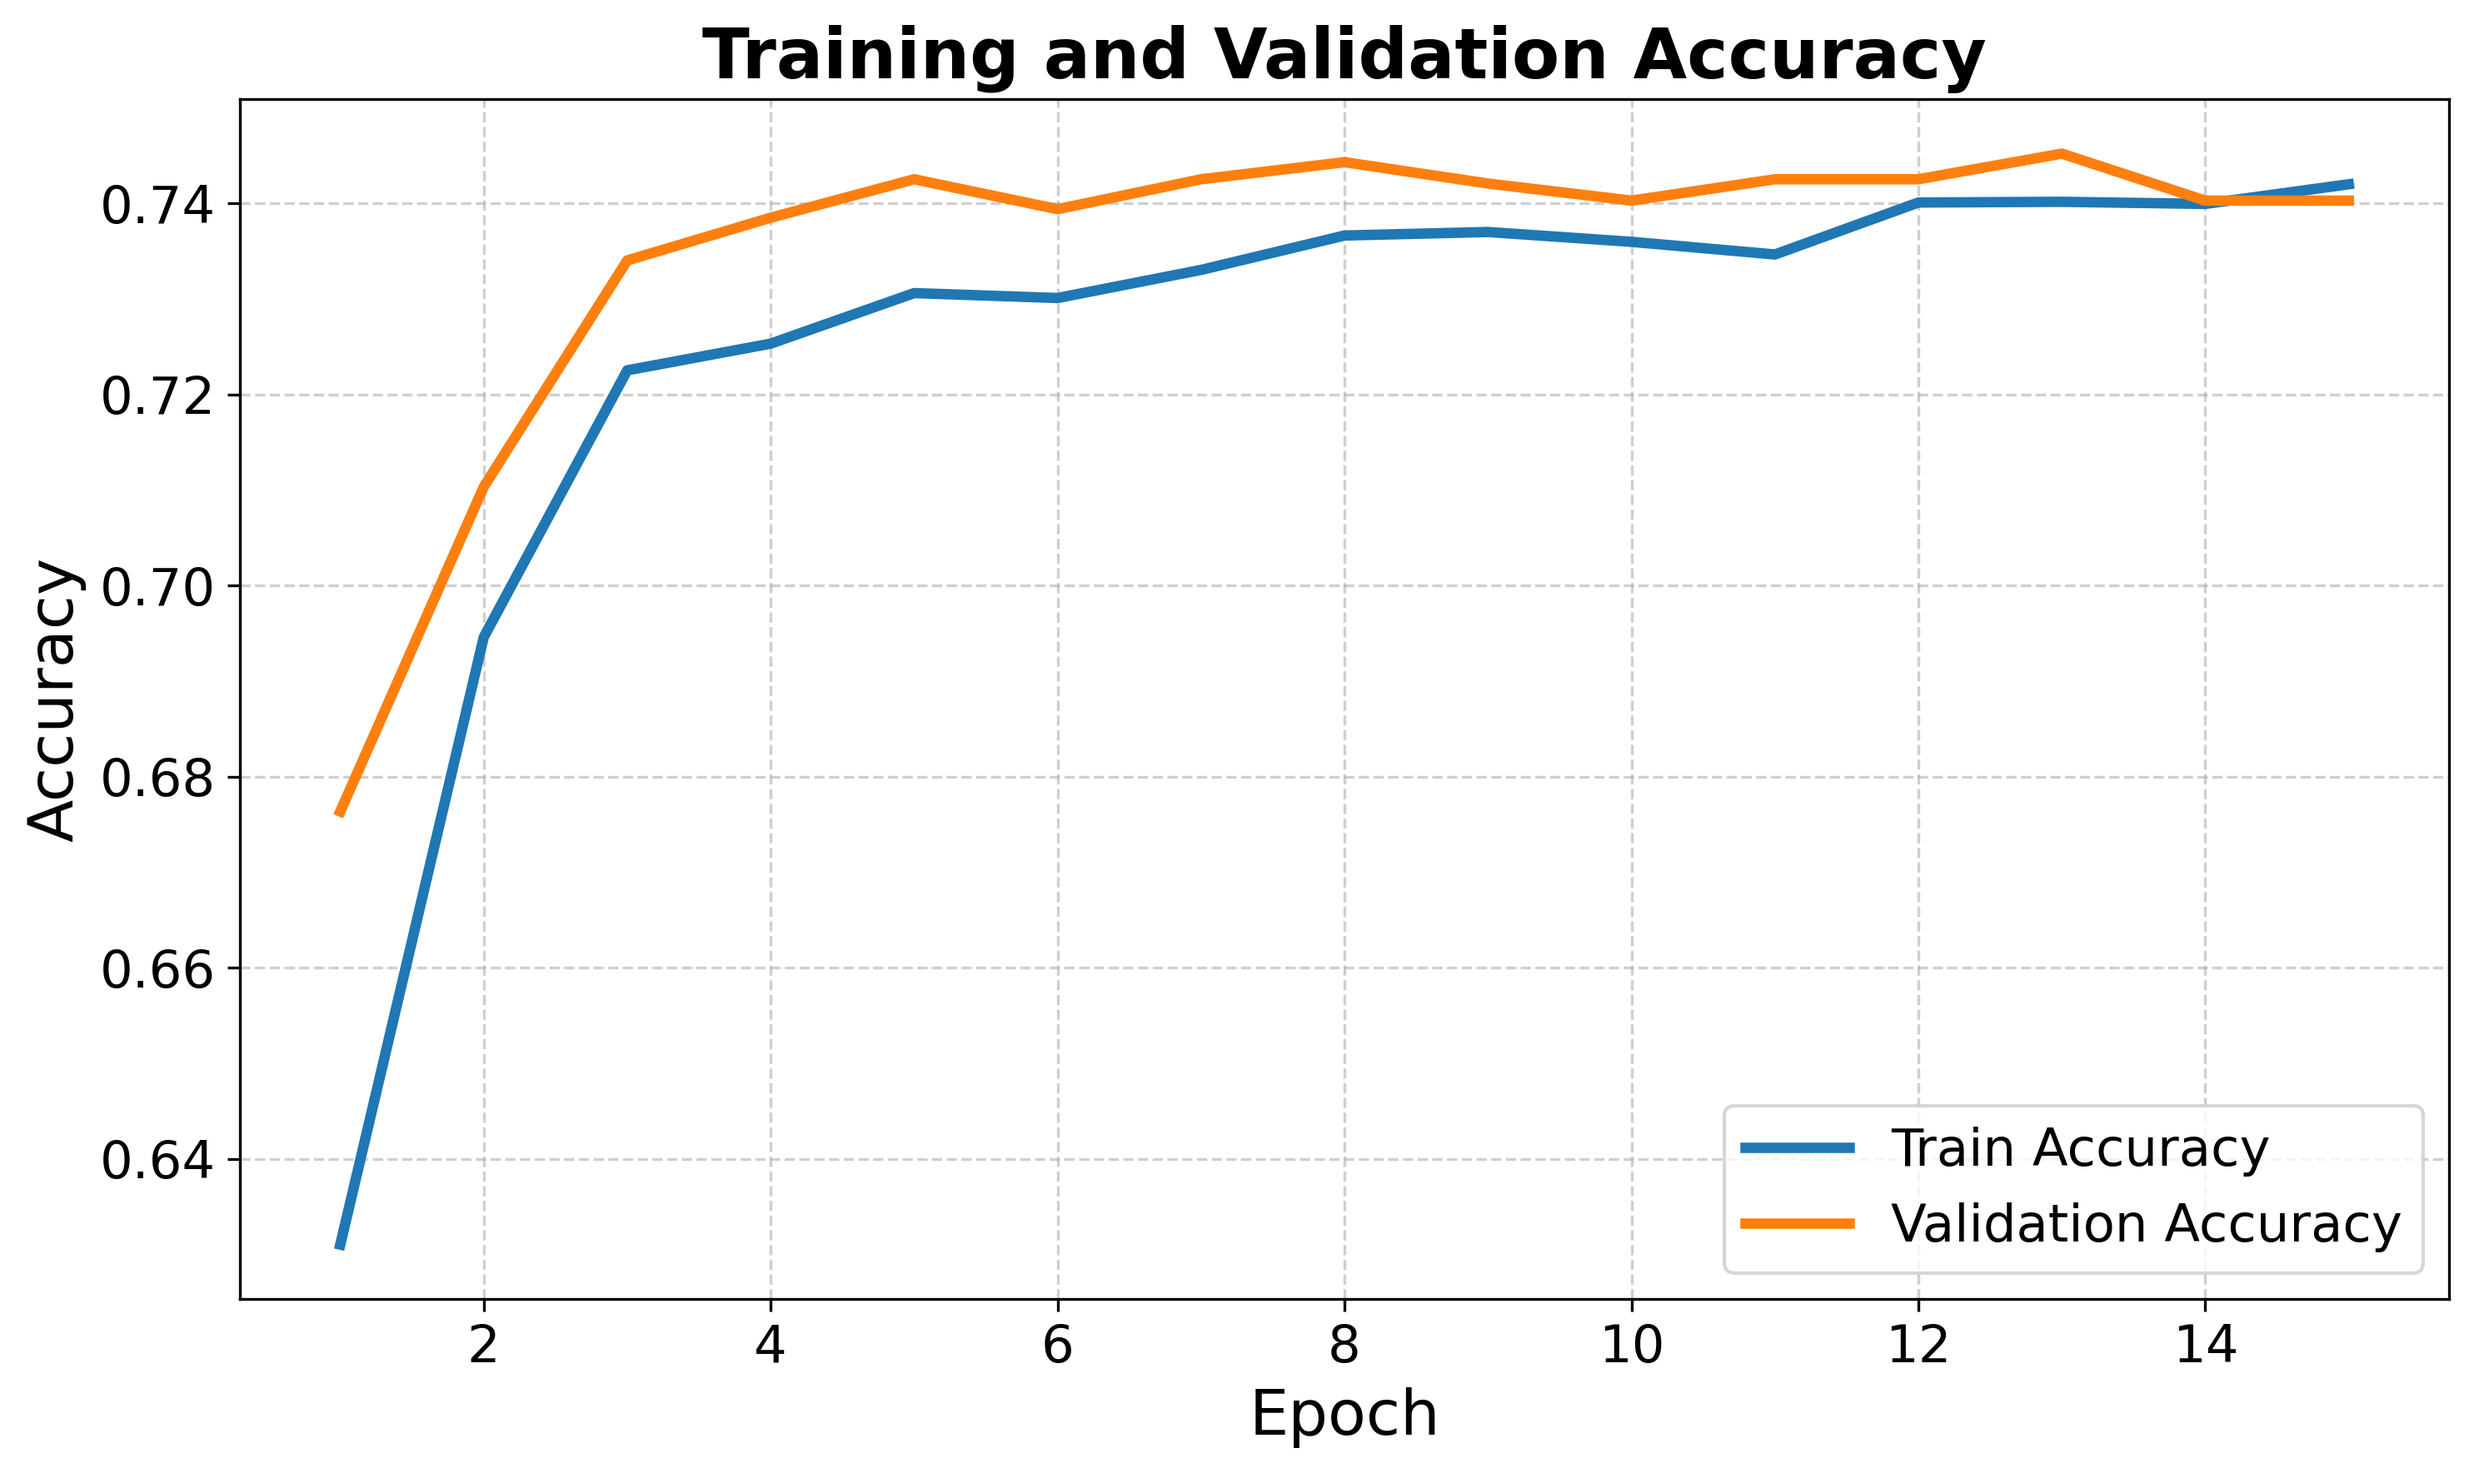
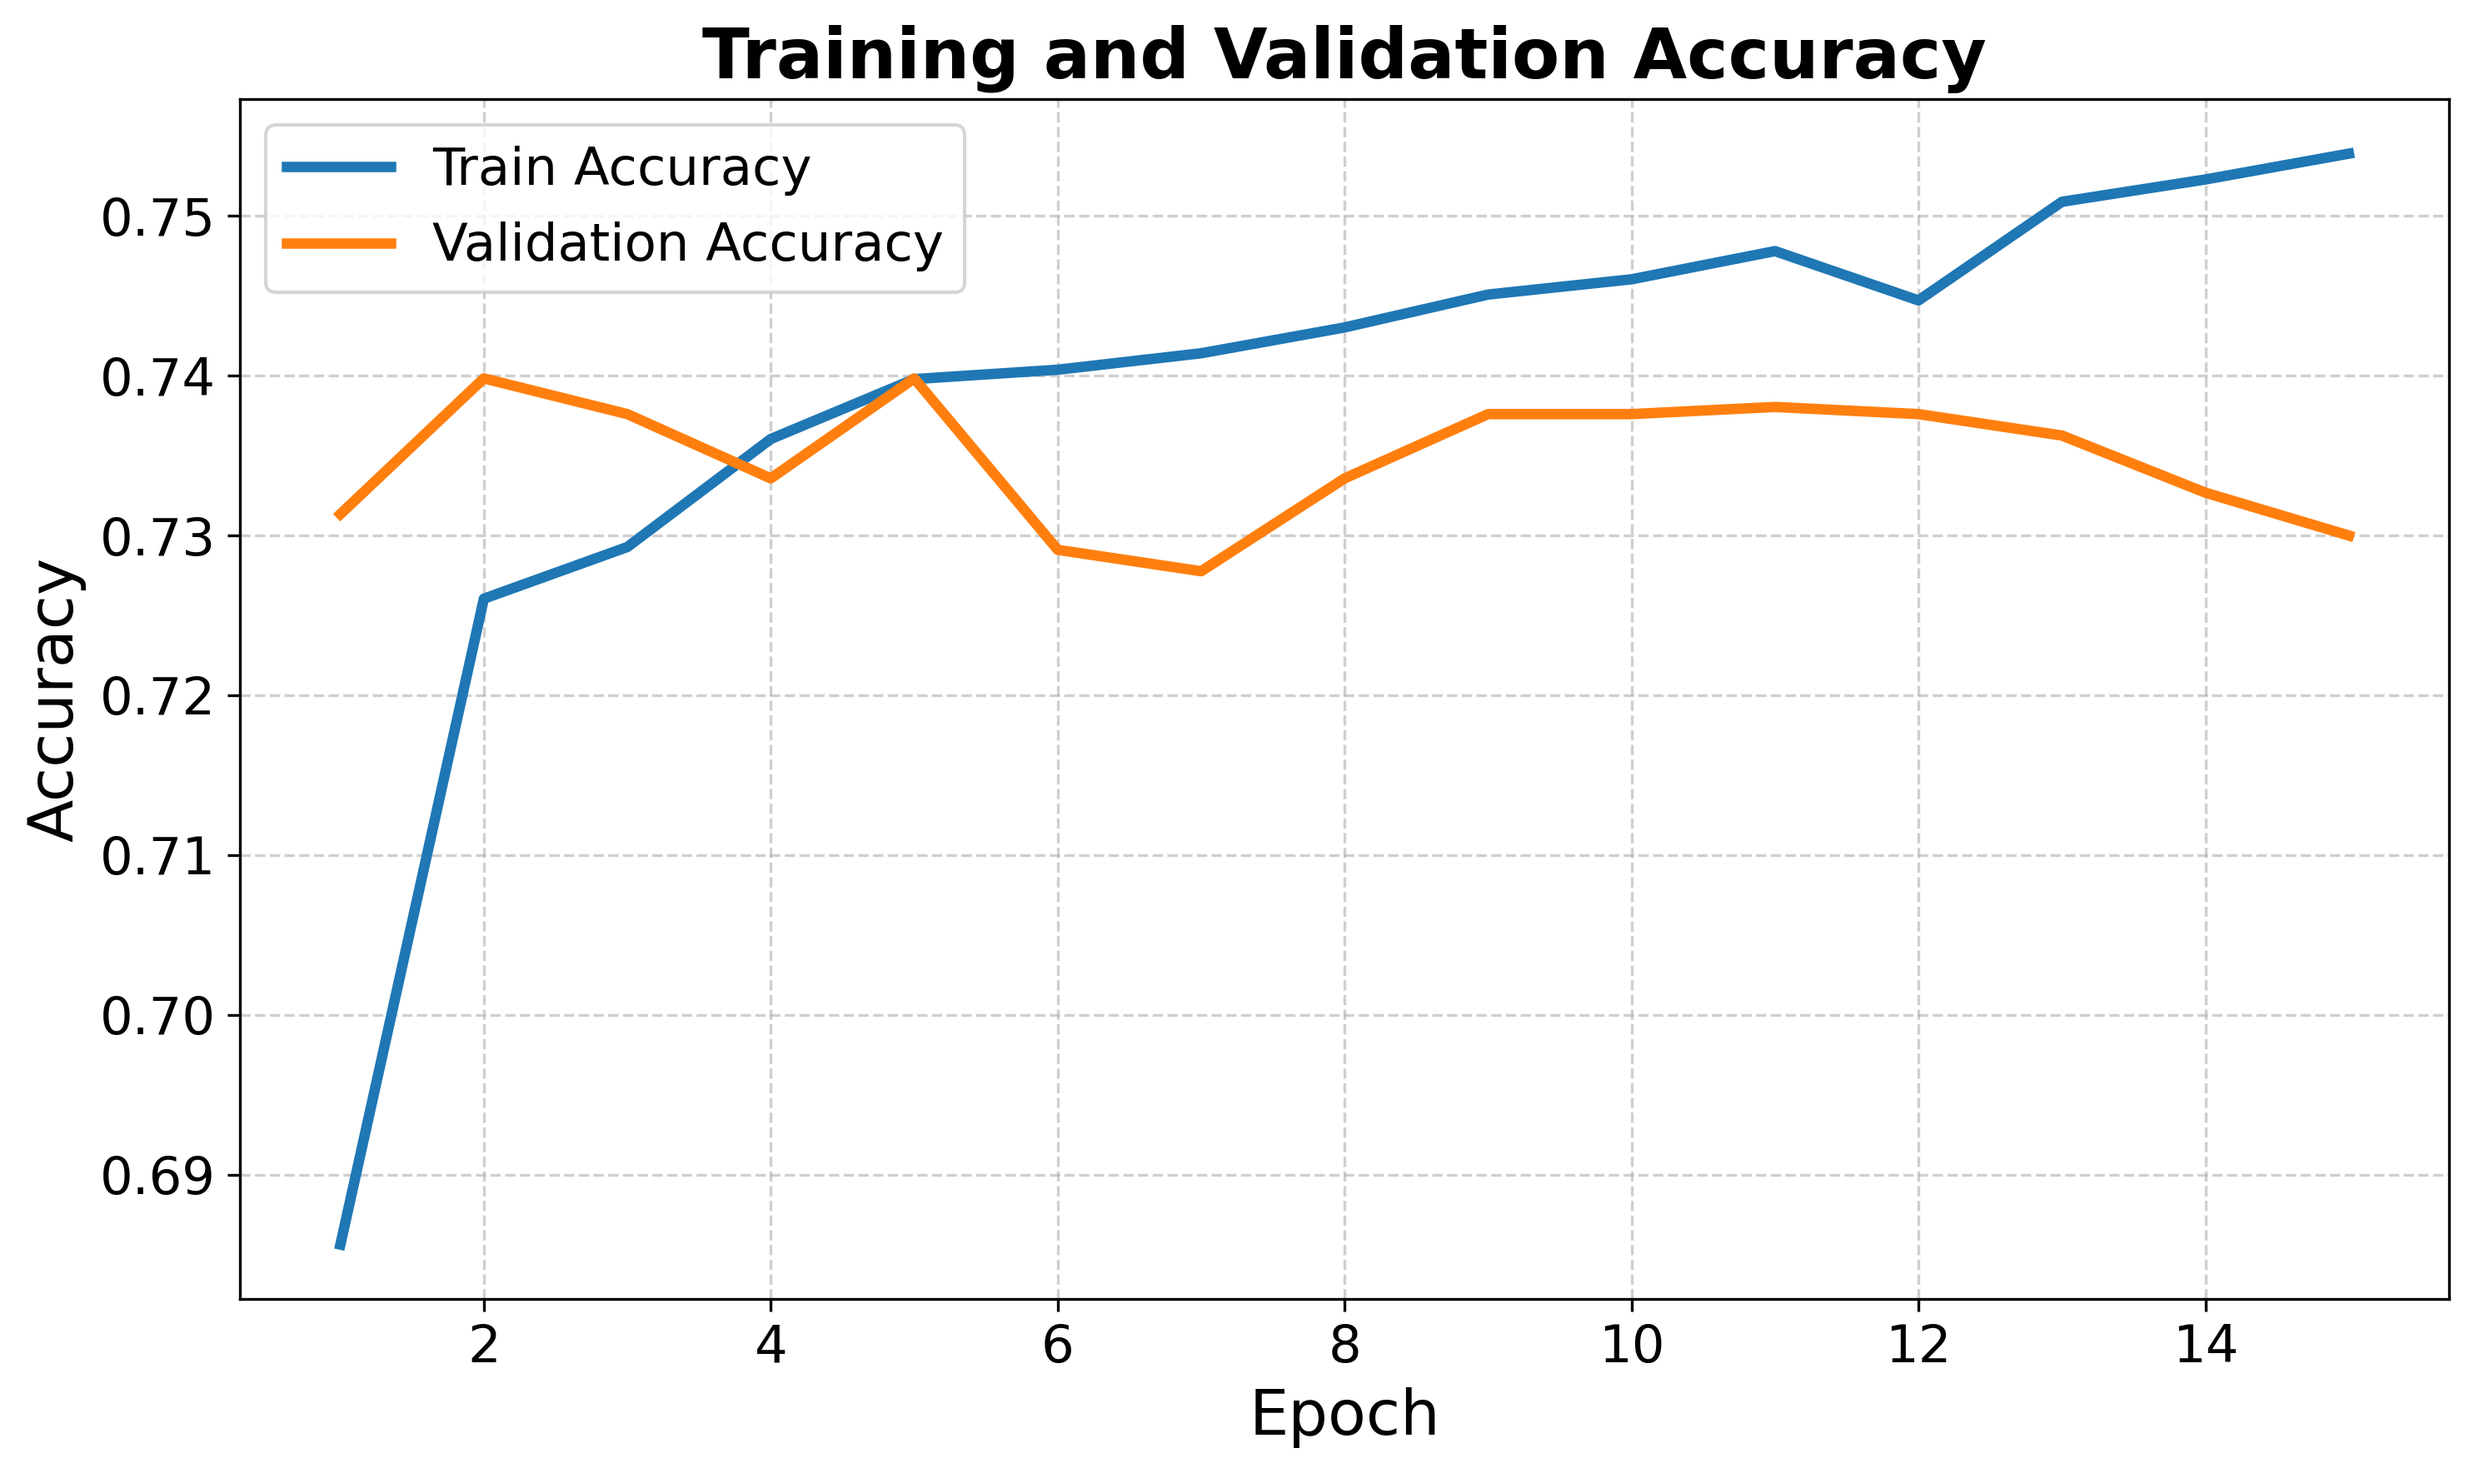
text

diff --git a/src/main.py b/src/main.py
@@ -25,7 +25,7 @@ from evaluation.callbacks.optimizer import (
 
 
 EXPERIMENT_PATH = (
-    "src/config/experiments/vision/convnext_base.yaml"
+    "src/config/experiments/text/bge_m3.yaml"
 )
 
 with open(EXPERIMENT_PATH) as f:

diff --git a/src/model/multimodal/fusion/crossmodal_fusion.py b/src/model/multimodal/fusion/crossmodal_fusion.py
@@ -1,7 +1,7 @@
 import torch
 import torch.nn as nn
 
-from src.utils.crossmodalAttn import (
+from utils.crossmodalAttn import (
     CrossModalAttention
 )
 

diff --git a/src/model/multimodal/text/embedding_model.py b/src/model/multimodal/text/embedding_model.py
@@ -12,7 +12,7 @@ from utils.pooling import (
     last_token_pooling
 )
 
-from src.utils.attn import (
+from utils.attn import (
     Attention
 )
 
